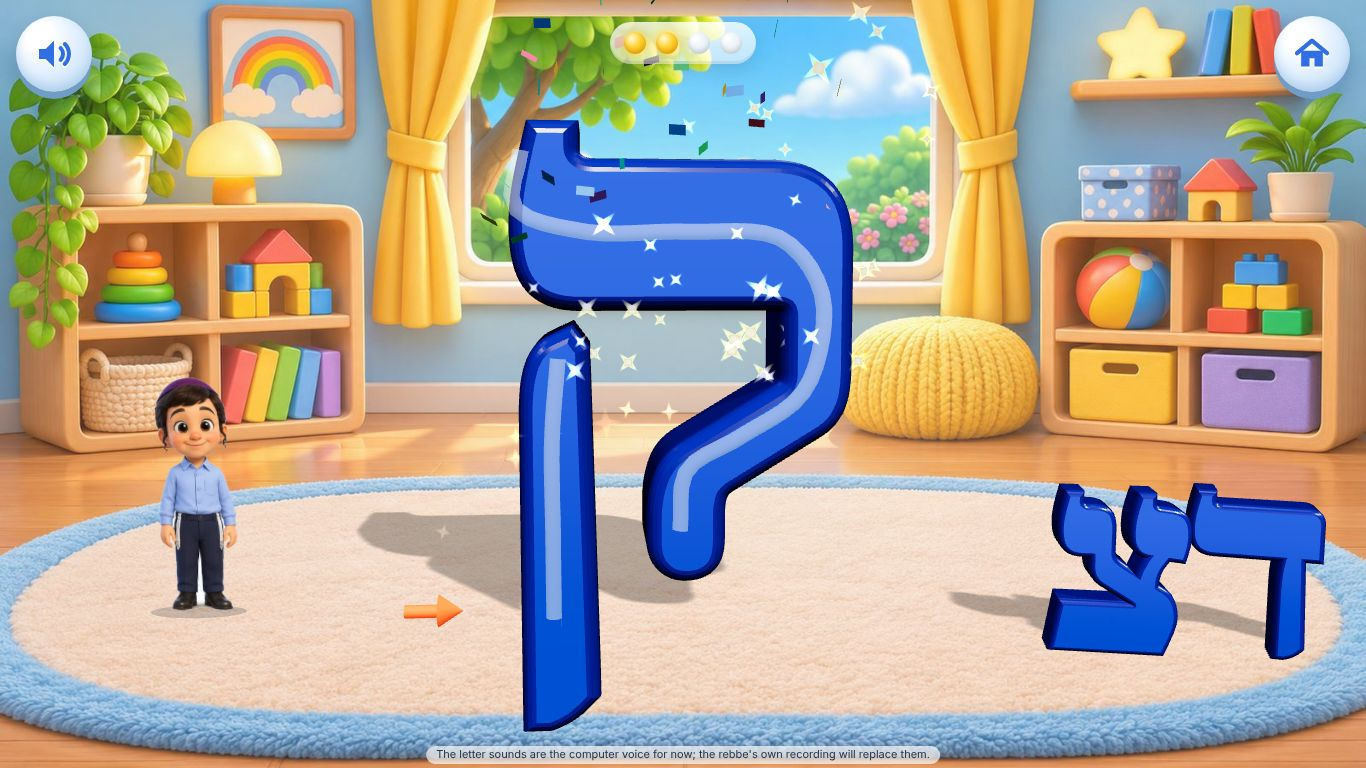
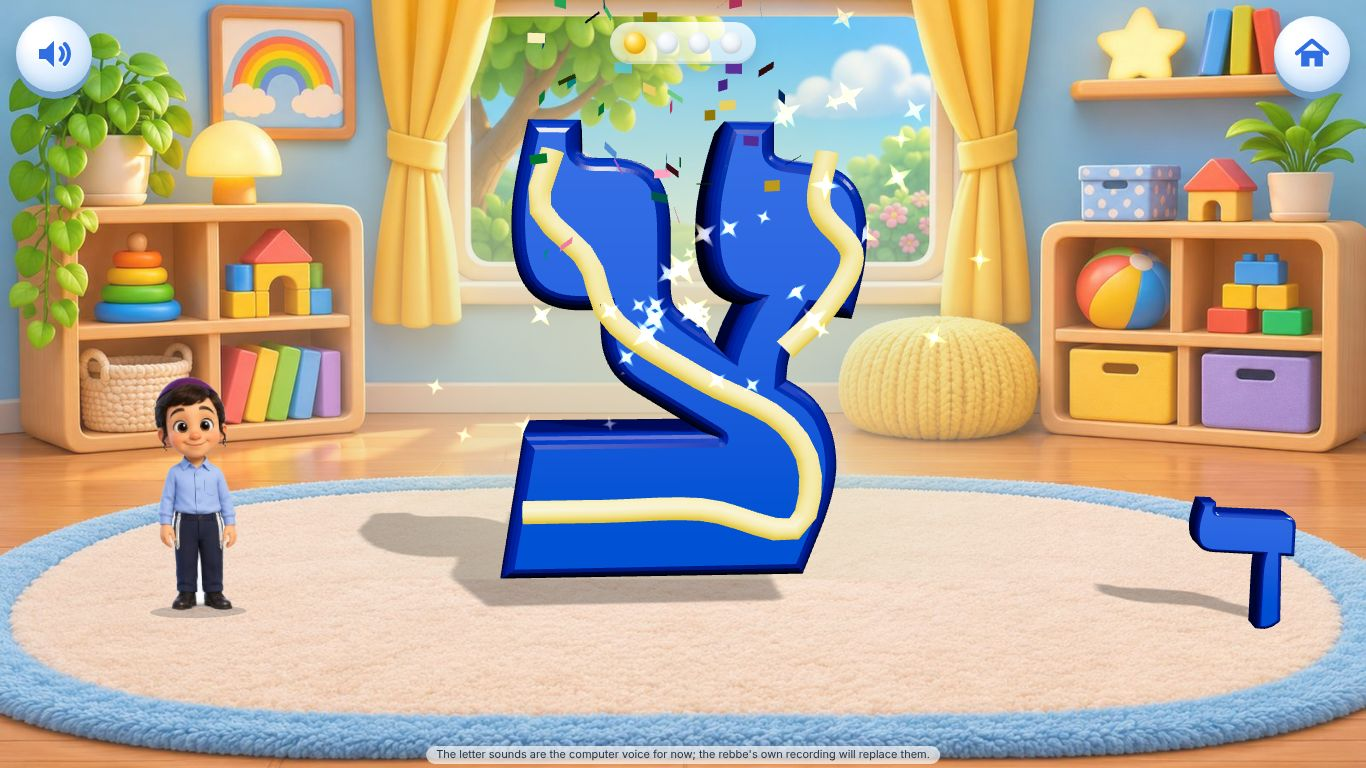
Kriyah: gentler letter rain after two misses; a star fills for each right answer in Remember these? (review)
Claude-Session: https://claude.ai/code/session_01GJ5Wb7t89LF21gad8CeRqK

diff --git a/v2/app/k-kriyah/engine.js b/v2/app/k-kriyah/engine.js
@@ -159,7 +159,8 @@ body{background:linear-gradient(#3fb4ff 0%,#8fd8ff 45%,#dff6ff 75%,#fff6d8 100%)
 body[data-review] #again{z-index:10}
 #rev button.right{animation:revpop .5s}
 @keyframes revpop{0%{transform:scale(1)}40%{transform:scale(1.18)}100%{transform:scale(1)}}
-#rev .dots{display:flex;gap:10px}#rev .dots i{width:18px;height:18px;border-radius:50%;background:#d6e2ee}#rev .dots i.on{background:#ffcf3a}
+#rev .dots{display:flex;gap:14px}#rev .dots i{width:34px;height:34px;background:#d6e2ee;clip-path:polygon(50% 0,61% 35%,98% 35%,68% 57%,79% 91%,50% 70%,21% 91%,32% 57%,2% 35%,39% 35%)}#rev .dots i.on{background:#ffcf3a;animation:revstar .6s}
+@keyframes revstar{0%{transform:scale(.4) rotate(-40deg)}60%{transform:scale(1.5) rotate(10deg)}100%{transform:scale(1) rotate(0)}}   /* a star fills for each right answer (reviewer: more fun) */
 @keyframes revshake{0%,100%{transform:translateX(0)}25%{transform:translateX(-12px)}75%{transform:translateX(12px)}}
 @media (max-width:700px){#rev button{width:100px;height:120px;font-size:76px;border-radius:26px}#rev .row{gap:12px}}
 @media (max-width:700px){#start{width:150px;height:150px}#start svg{width:70px;height:70px}.endbar .btn.big{width:100px;height:100px}.stars svg{width:80px;height:80px}.stars{gap:10px;padding:14px 18px}#prog{top:96px}#prog i{width:18px;height:18px}}
@@ -660,7 +661,7 @@ export async function quickReview(unit, game) {
       (async () => { if (qi === 0 && firstEver) { await say('Watch me. Tap ' + LETTERS[k].name + '.'); const r = btns.find(x => x.dataset.k === k).getBoundingClientRect(); hand.at(r.x + r.width / 2, r.y + r.height / 2 + 20, true); await wait(900); hand.hide(); await say('Now you!'); }
         await say(ask); busy = false; window.__review.ready = 1; })();
       btns.forEach(b => b.onclick = async () => { if (busy) return; const c = b.dataset.k;
-        if (c === k) { busy = true; b.classList.add('right'); sfx.chime(); if (firstTry) noteLetter(k, true); dots.children[qi].classList.add('on');
+        if (c === k) { busy = true; b.classList.add('right'); sfx.chime(); if (firstTry) noteLetter(k, true); dots.children[qi].classList.add('on'); if (qi === picks.length - 1) sfx.fanfare && sfx.fanfare();
           await say(k === 'alef' || k === 'ayin' ? [LETTERS[k].name + '! ' + LETTERS[k].name + ' is quiet.'] : [LETTERS[k].name + '! ' + LETTERS[k].name + ' says', S(LETTERS[k].snd)]); res(); }
         else { busy = true; sfx.boop(); b.classList.remove('wrong'); void b.offsetWidth; b.classList.add('wrong'); if (firstTry) noteLetter(k, false); firstTry = false;
           const r = btns.find(x => x.dataset.k === k); r.classList.add('right');

diff --git a/v2/app/k-kriyah/games/bonus.js b/v2/app/k-kriyah/games/bonus.js
@@ -30,7 +30,7 @@ export default function setup(E, { unit }) {
   function drop(k, ms) {
     const l = E.letter(k, 1.0); let x; if (E.portrait) { const top = lx => Math.max(-9, ...falling.filter(f => !f.userData.busy && !f.userData.gone && Math.abs(f.userData.x - lx) < .5).map(f => f.position.y)); x = [-.25, 1.45].sort((a, b) => top(a) - top(b))[0]; }   /* a phone has two lanes: the one whose last letter is lowest */
     else do { x = Math.max(-2.0, (Math.random() * 2 - 1) * X * .85 + .6);   /* never over the sign */ } while (falling.some(f => !f.userData.busy && f.position.y > 2.5 && Math.abs(f.userData.x - x) < 1.6) && Math.random() > .02);
-    l.userData = Object.assign(l.userData, { t0: performance.now(), ms: ms * FALL_F, y0: E.portrait ? 5.0 : 4.0, y1: .5, x }); l.position.set(x, l.userData.y0, .8); E.scene.add(l); falling.push(l); E.popIn(l, 1, 250);   /* appears inside the sky, below the top buttons */
+    l.userData = Object.assign(l.userData, { t0: performance.now(), ms: ms * FALL_F * (missRound >= 2 ? 1.5 : 1),   /* gentler after two misses in a round (reviewer) */ y0: E.portrait ? 5.0 : 4.0, y1: .5, x }); l.position.set(x, l.userData.y0, .8); E.scene.add(l); falling.push(l); E.popIn(l, 1, 250);   /* appears inside the sky, below the top buttons */
     if (k === want) targets++;
   }
   E.onPointer('down', async e => {
